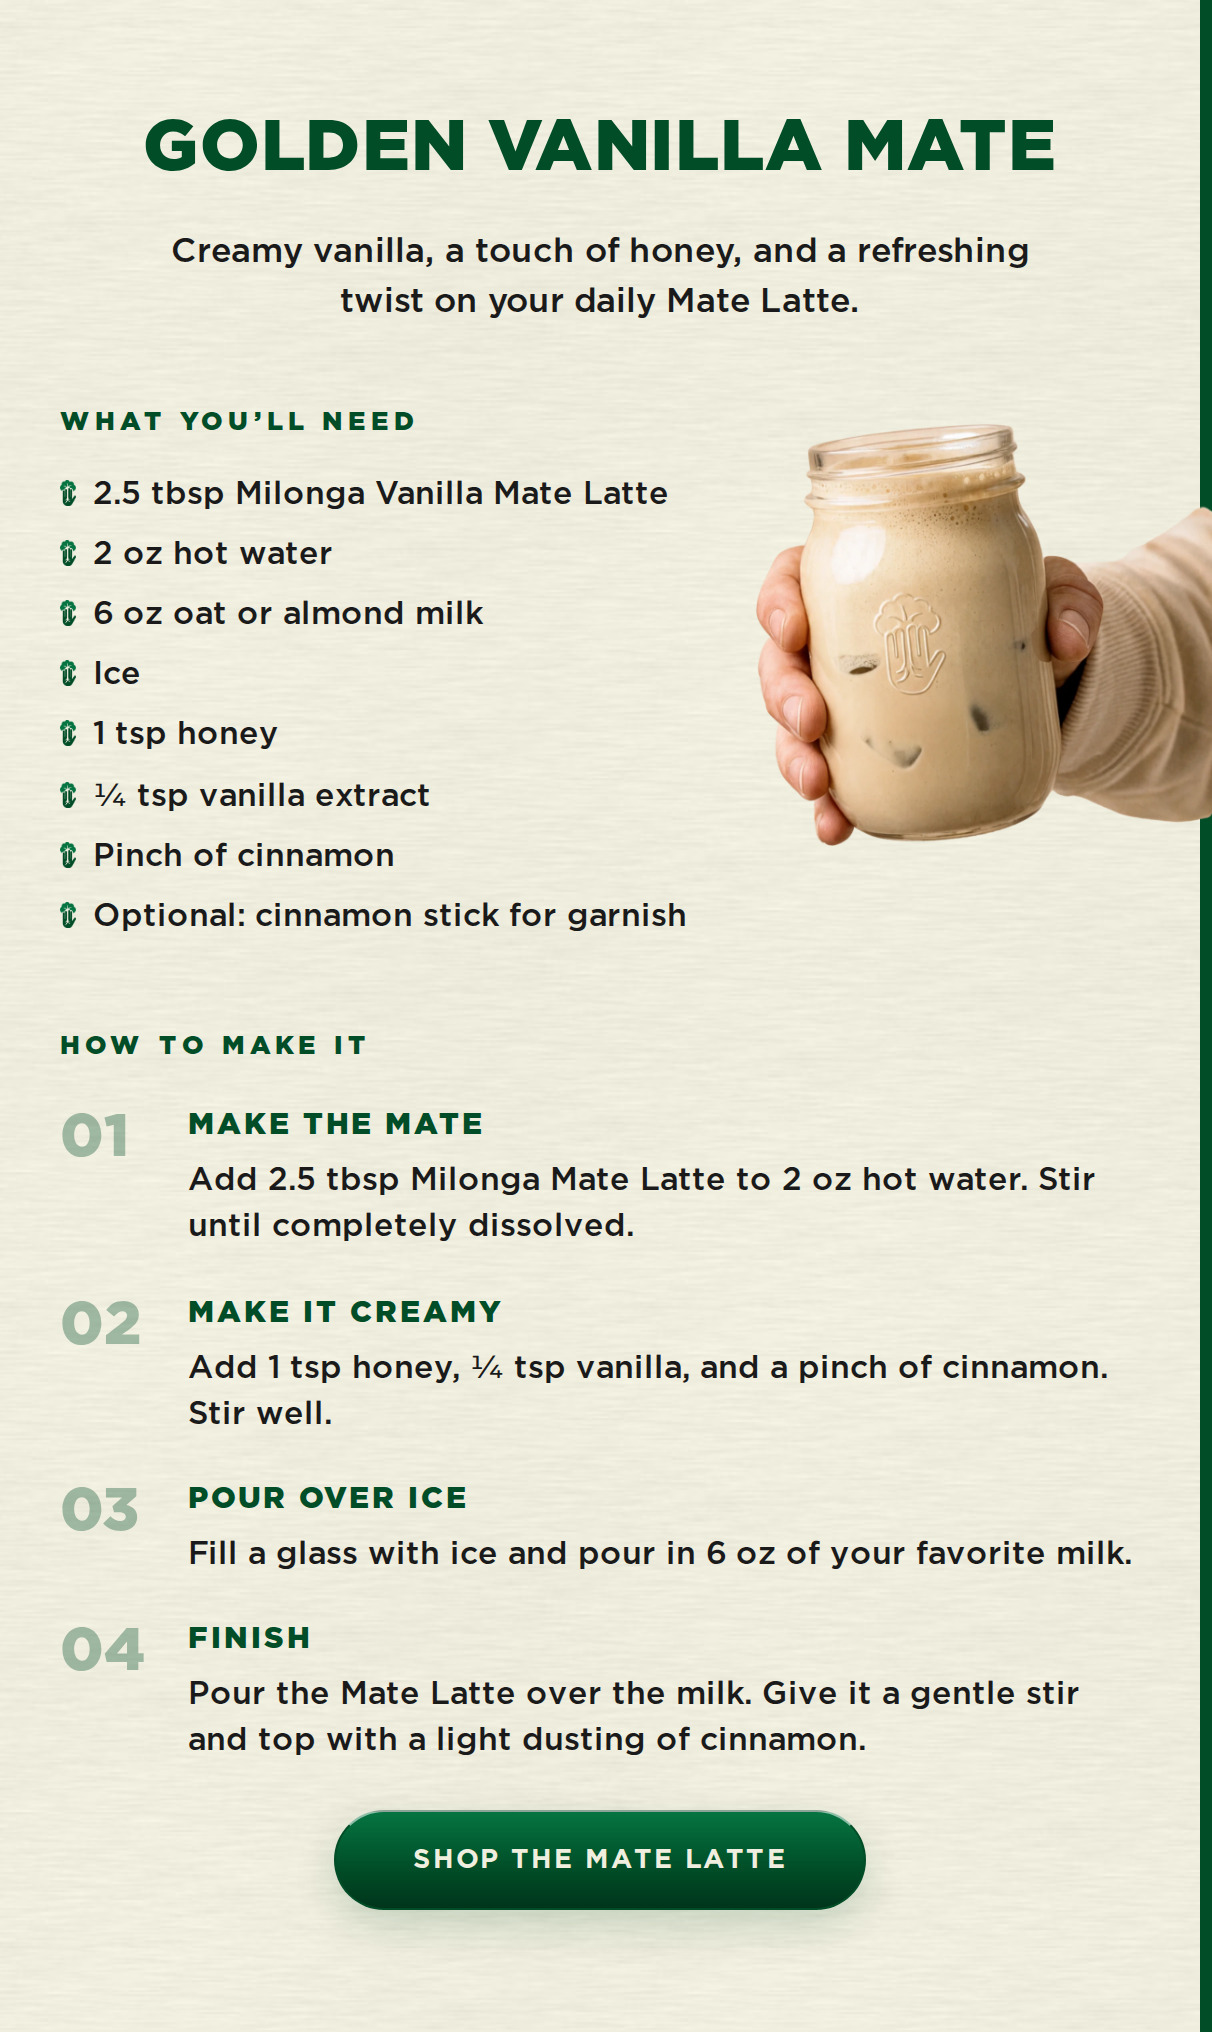
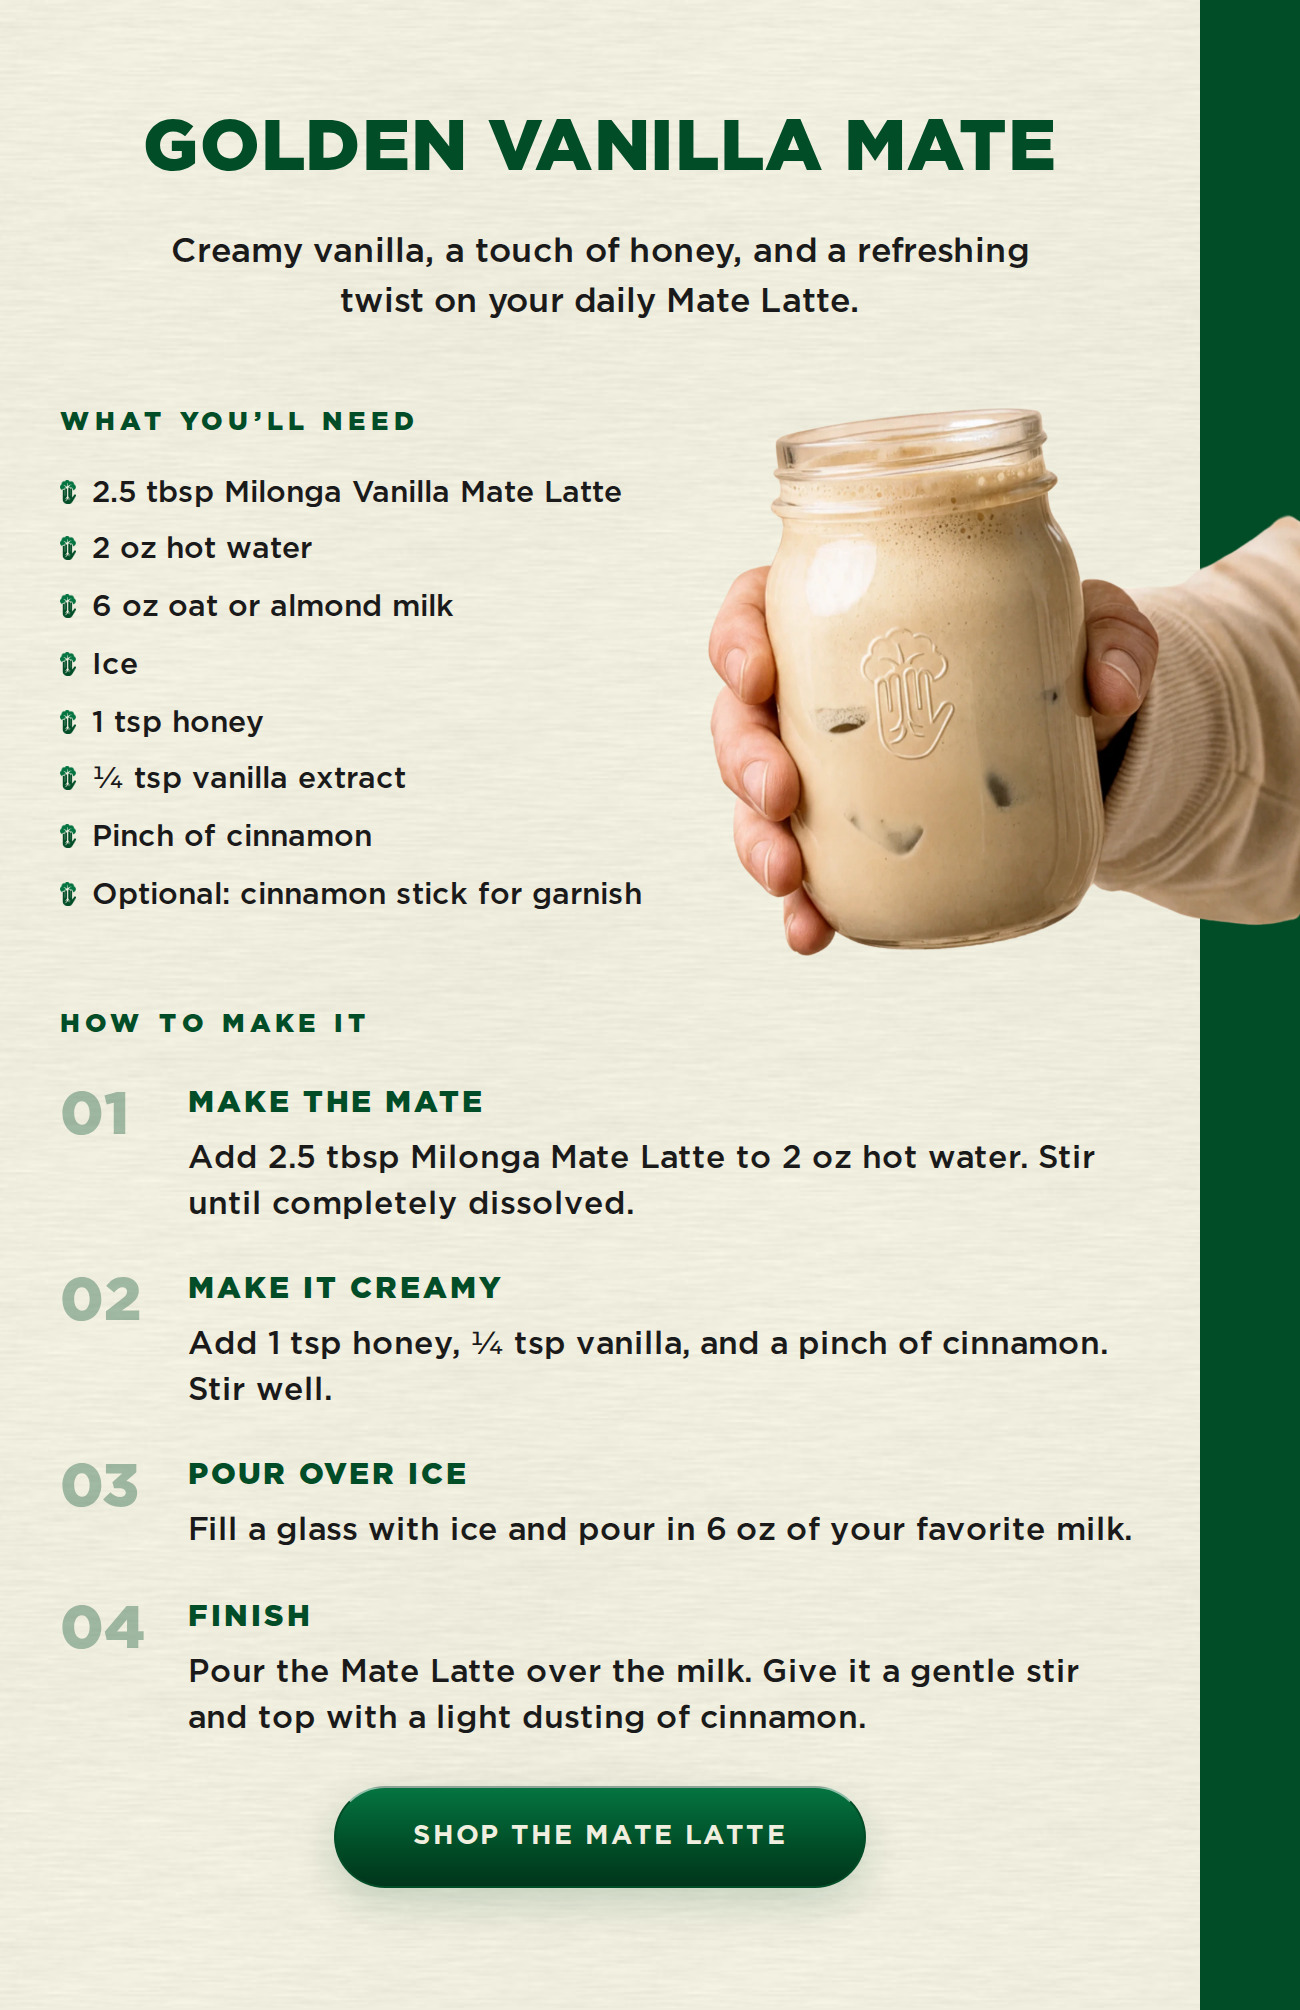
email: recipe list down to 15, jar up to 296
THE BLEED IS WHAT BREAKS THE TRADE. Inside the container the list and the jar
compete for 540 units, and the list cannot give up much: measured on the
render, its longest line — "Optional: cinnamon stick for garnish" — runs 293
at 15, plus the 16 the bullet and its gap take, so the column has to stay
above 309. Shrinking the type alone could not pay for a bigger picture.

But the jar does not have to live inside the container. Running it 80 units
past the right edge instead of 36 takes the crop off the SLEEVE, where there
is nothing to lose, and pays for a 296-unit jar beside a 312-unit list — 228
before, so 30% bigger with every ingredient still on one line.

15 is one step under the system's 16px body floor. Flagged rather than taken
quietly: it is a spec list of short phrases rather than running copy, and it
is the only type in either email below the floor.

Claude-Session: https://claude.ai/code/session_01NhEtXPnfeCJfN73SqBkUZ5

diff --git a/email-ds/emails/how-to-make-it.jsx b/email-ds/emails/how-to-make-it.jsx
@@ -103,16 +103,20 @@ function HowToMakeIt() {
       // on all four sides is a sticker; the same object crossing the edge is
       // a photograph.
       //
-      // 336 is measured, not chosen, and the picture was sized to leave it.
-      // The longest line — "Optional: cinnamon stick for garnish" — is 36
-      // characters, and at 16, the body floor, this face runs about 7.6 units
-      // a character: 273, plus the 21 the bullet and its gap take. At 300 two
-      // ingredients wrapped and at 310 one still did, which on a list of
-      // eight reads as a mistake rather than as a measure. The jar gives the
-      // width up rather than the list, because a list that wraps looks wrong
-      // and a picture 20 units narrower does not.
+      // THE BLEED IS WHAT BREAKS THE TRADE. Inside the container the list and
+      // the jar compete for 540 units, and the list cannot give up much: its
+      // longest line — "Optional: cinnamon stick for garnish" — measures 293
+      // at 15, plus the 16 the bullet and its gap take, so the column has to
+      // stay above 309. But the jar does not have to live inside the
+      // container. Running it 80 past the right edge rather than 36 takes the
+      // crop off the SLEEVE, where there is nothing to lose, and pays for a
+      // 296-unit jar beside a 312-unit list — 228 before.
+      //
+      // 15 is one step under the system's 16 body floor. Flagged rather than
+      // taken quietly: it is a spec list of short phrases, not running copy,
+      // and it is the only type in either email below the floor.
       h('div', { style: { position: 'relative', marginTop: 40, minHeight: 250 } },
-        h('div', { style: { width: 336 } },
+        h('div', { style: { width: 312 } },
           h('div', { style: { fontFamily: 'Gotham, Montserrat, sans-serif', fontWeight: 900,
             fontSize: 13, letterSpacing: '0.2em', textTransform: 'uppercase',
             color: '#004D27', marginBottom: 16 } }, 'What you’ll need'),
@@ -128,14 +132,14 @@ function HowToMakeIt() {
           ].map((t, i) => h('div', { key: i,
             style: { display: 'flex', alignItems: 'flex-start', gap: 8, marginBottom: 7 } },
             h('img', { src: '../public/logo/mark-green.png', alt: '',
-              style: { height: 13, width: 'auto', flex: 'none', display: 'block', marginTop: 4 } }),
+              style: { height: 12, width: 'auto', flex: 'none', display: 'block', marginTop: 4 } }),
             h('span', { style: { fontFamily: 'Gotham, Montserrat, sans-serif', fontWeight: 500,
-              fontSize: 16, lineHeight: 1.45, color: '#1A1A1A' } }, t),
+              fontSize: 15, lineHeight: 1.45, color: '#1A1A1A' } }, t),
           )),
         ),
         h('img', { src: '../public/product/jar-in-hand.png',
           alt: 'A hand holding a tall glass jar of iced Milonga Mate Latte, embossed with the Milonga hand.',
-          style: { position: 'absolute', right: -36, top: 8, width: 228,
+          style: { position: 'absolute', right: -80, top: 0, width: 296,
                    height: 'auto', display: 'block' } }),
       ),
 
